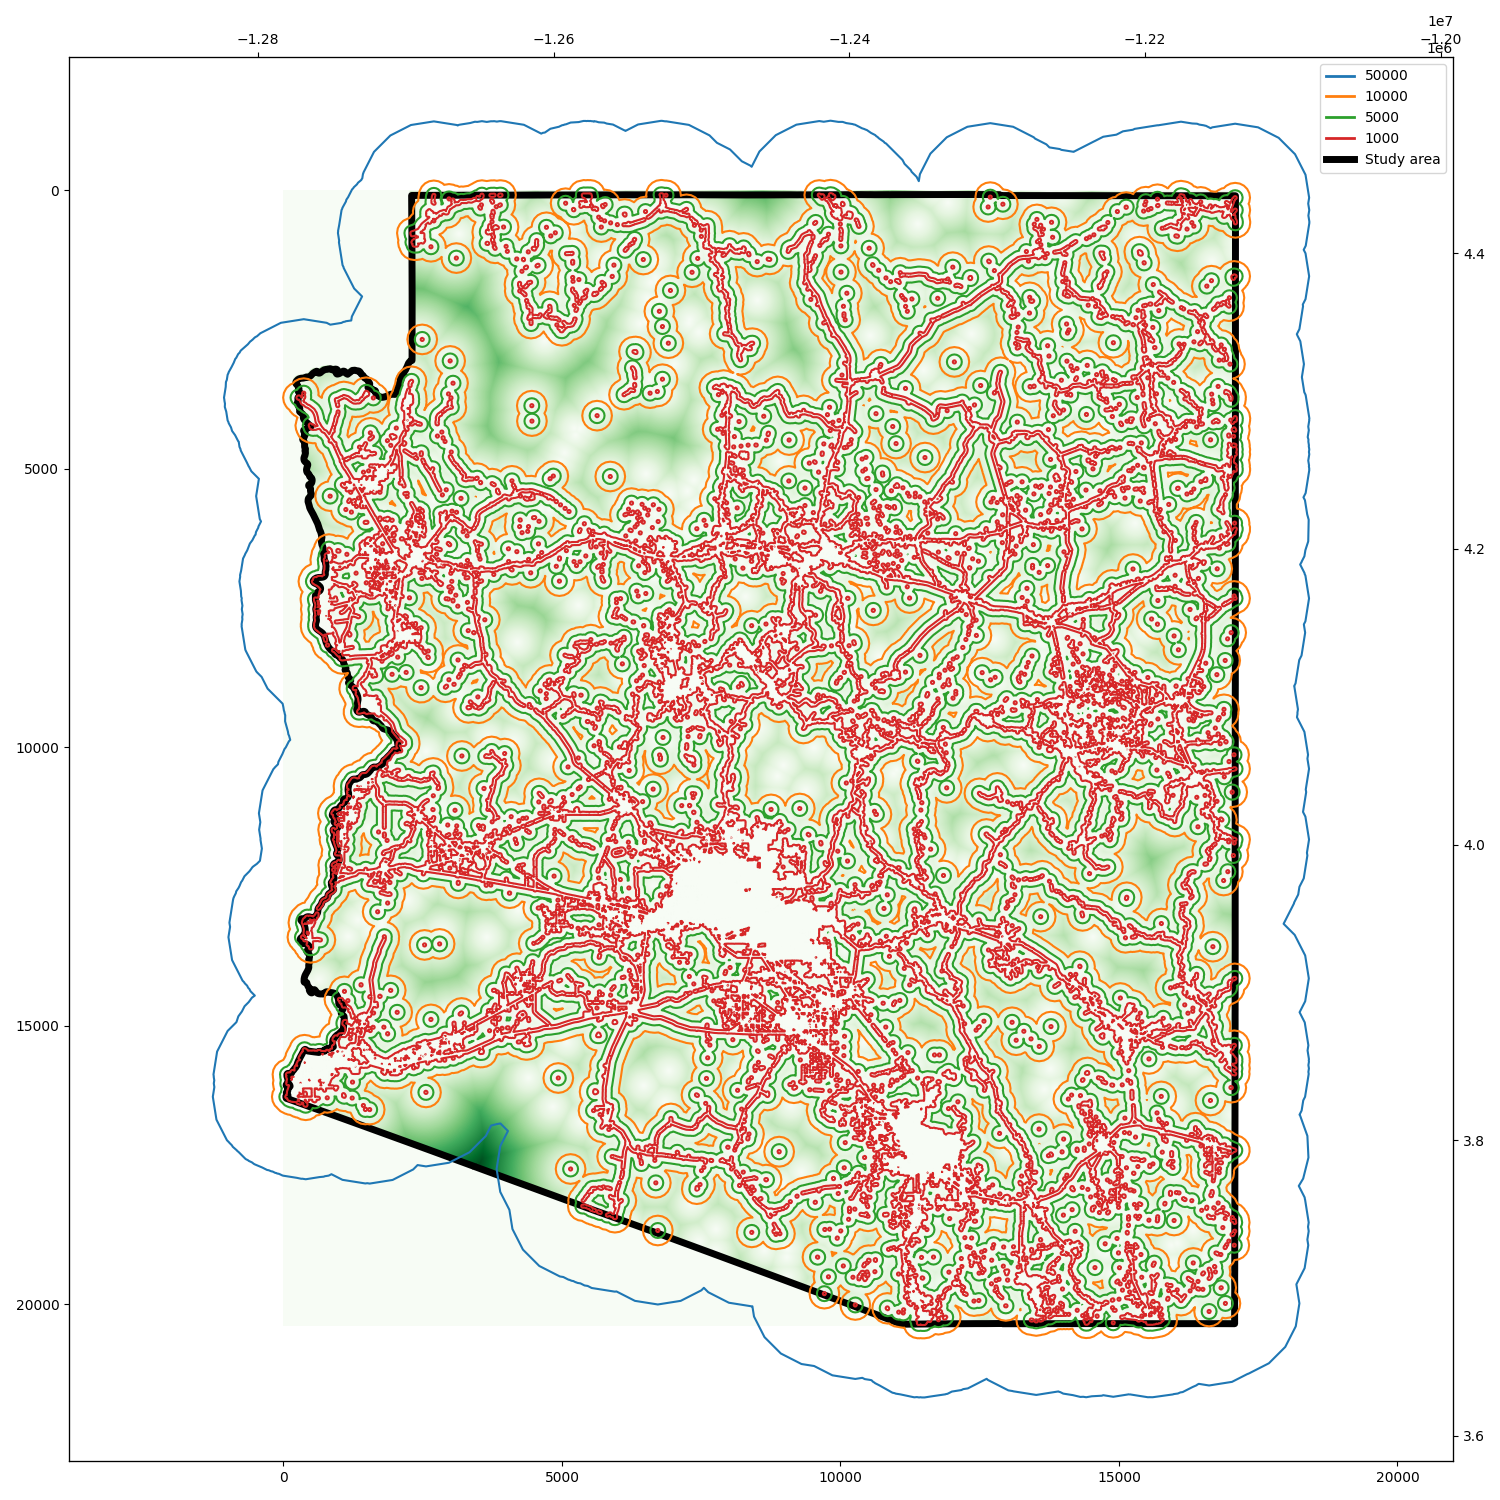
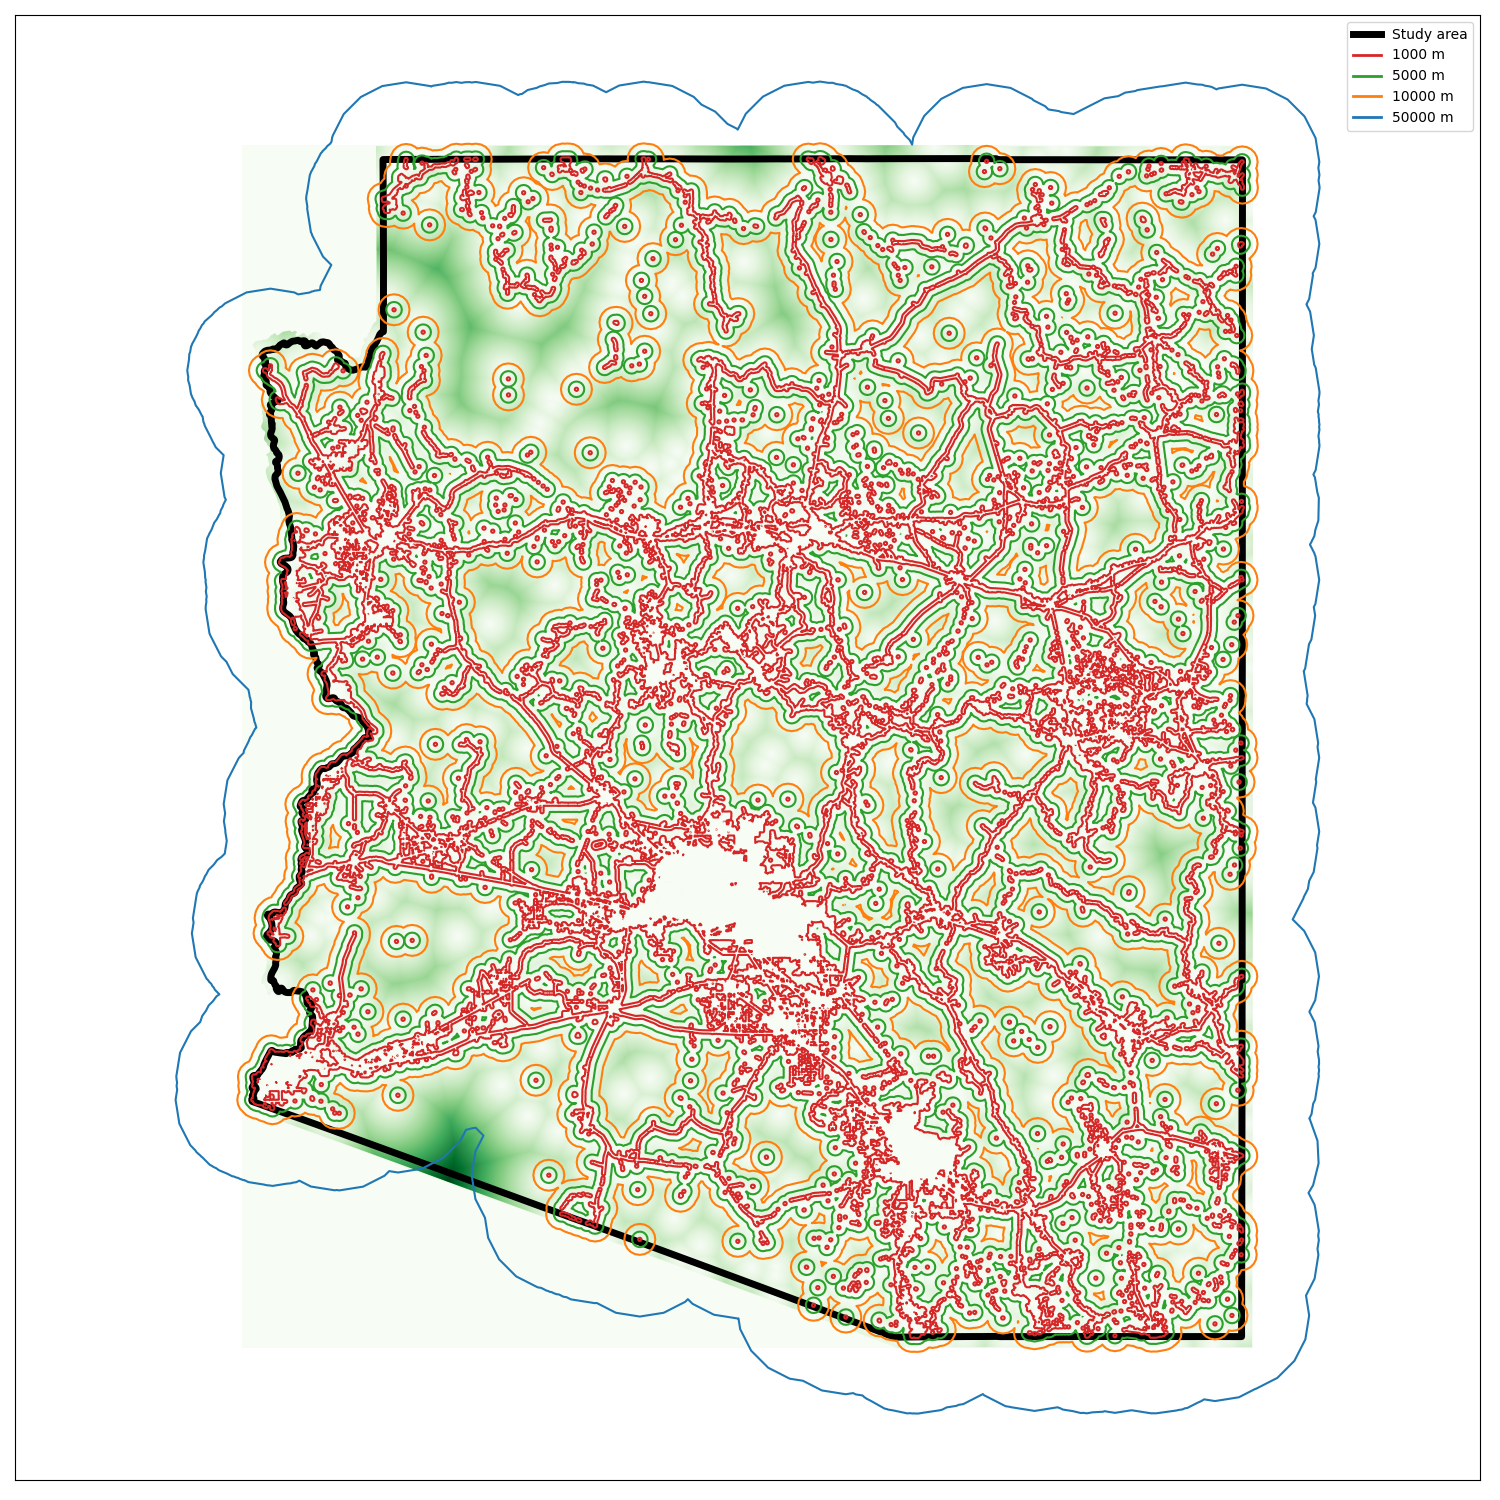
Improve residential areas plot

diff --git a/other/residential_areas/plot.py b/other/residential_areas/plot.py
@@ -33,14 +33,19 @@ for color, dist in zip(colors, dists):
     df = gpd.read_file(f'out/{dist}m_dissolve.shp')
     df.boundary.plot(ax=ax2, label=dist, color=color)
 
-legend_elements = [
-    Line2D([0], [0], color=color, lw=2, label=dist)
-    for color, dist in zip(colors, dists)
-]
+legend_elements = [Line2D([0], [0], color='black', lw=5, label='Study area')]
 
-legend_elements += [Line2D([0], [0], color='black', lw=5, label='Study area')]
+legend_elements += list(reversed([
+    Line2D([0], [0], color=color, lw=2, label=dist + ' m')
+    for color, dist in zip(colors, dists)
+]))
 
 ax2.legend(handles=legend_elements)
+
+ax1.axis('off')
+ax1.set_yticks([])
+ax2.axis('off')
+ax2.set_yticks([])
 
 plt.tight_layout()
 plt.savefig('all.png')
